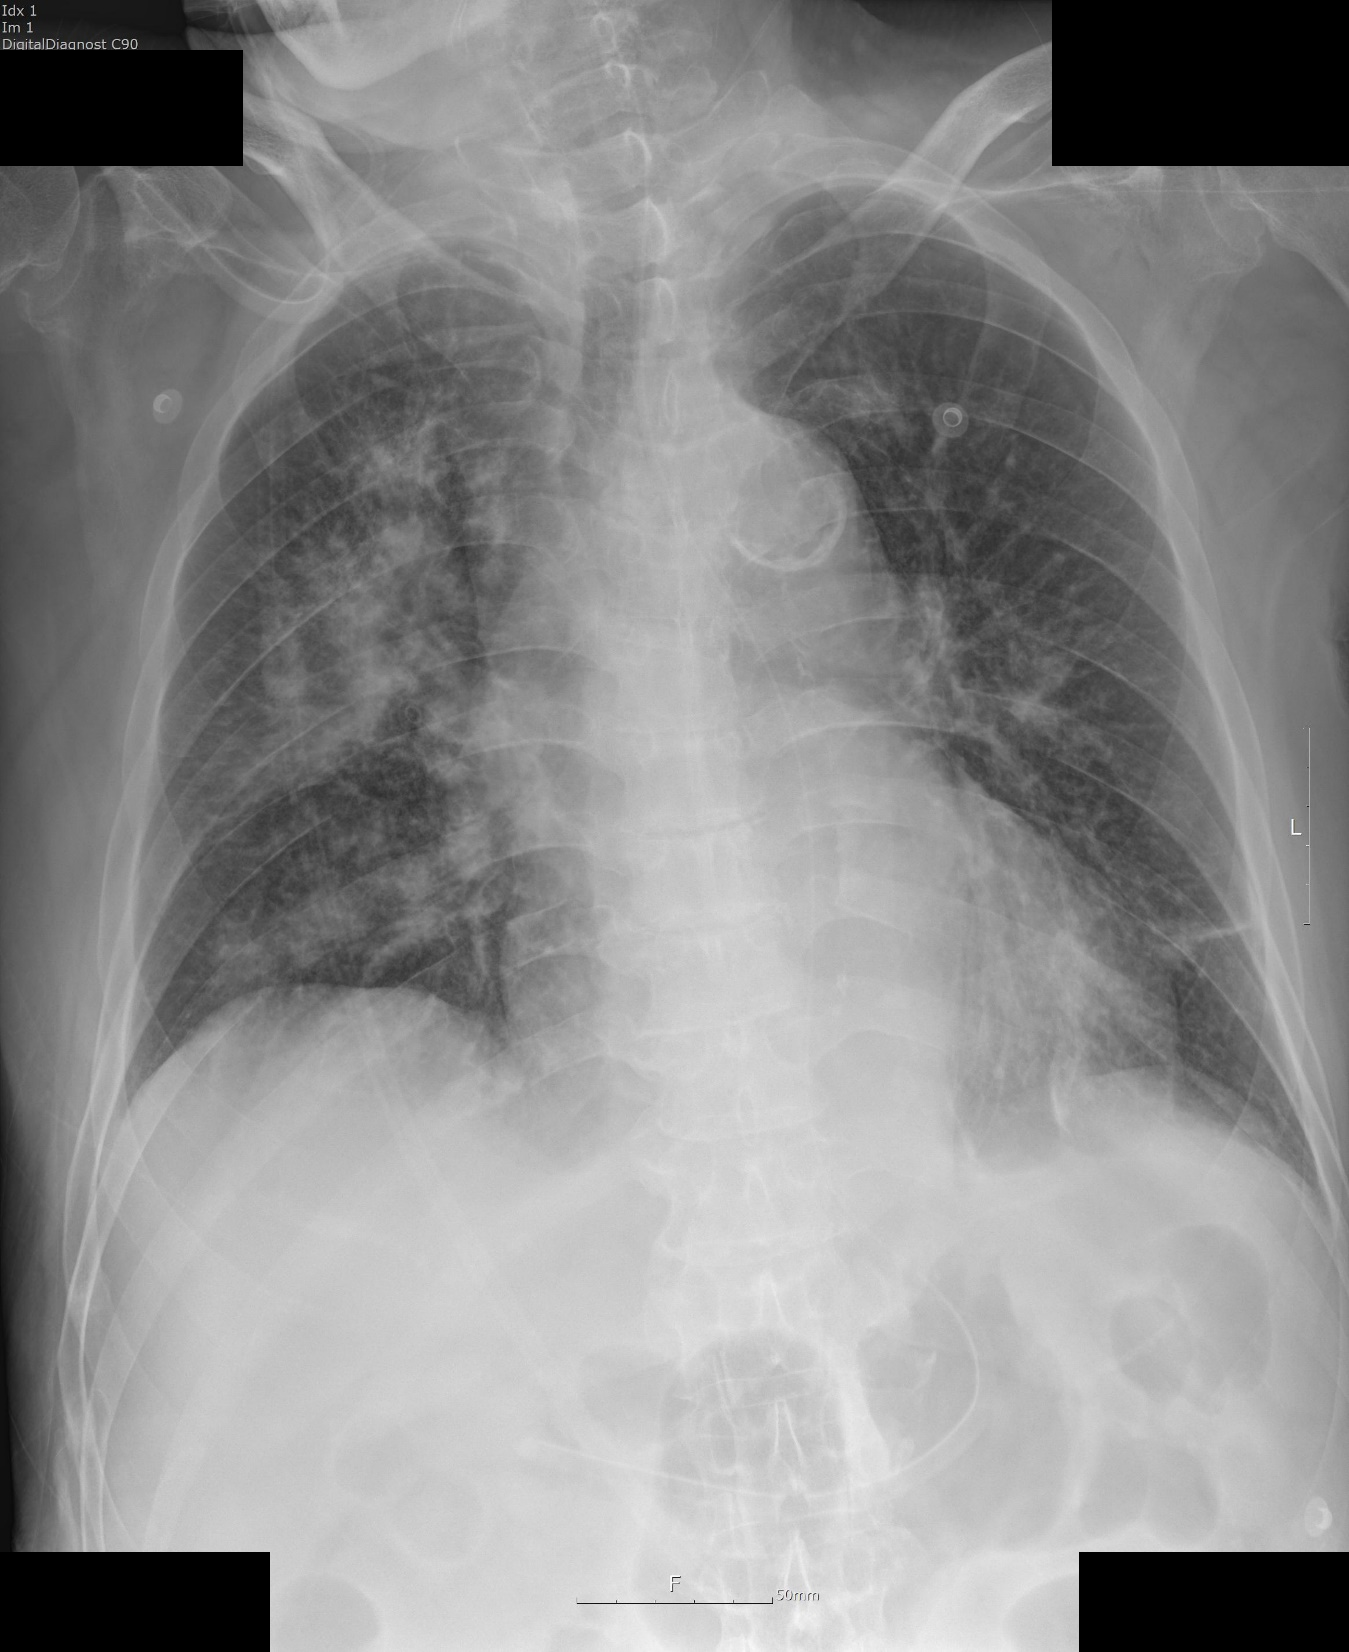
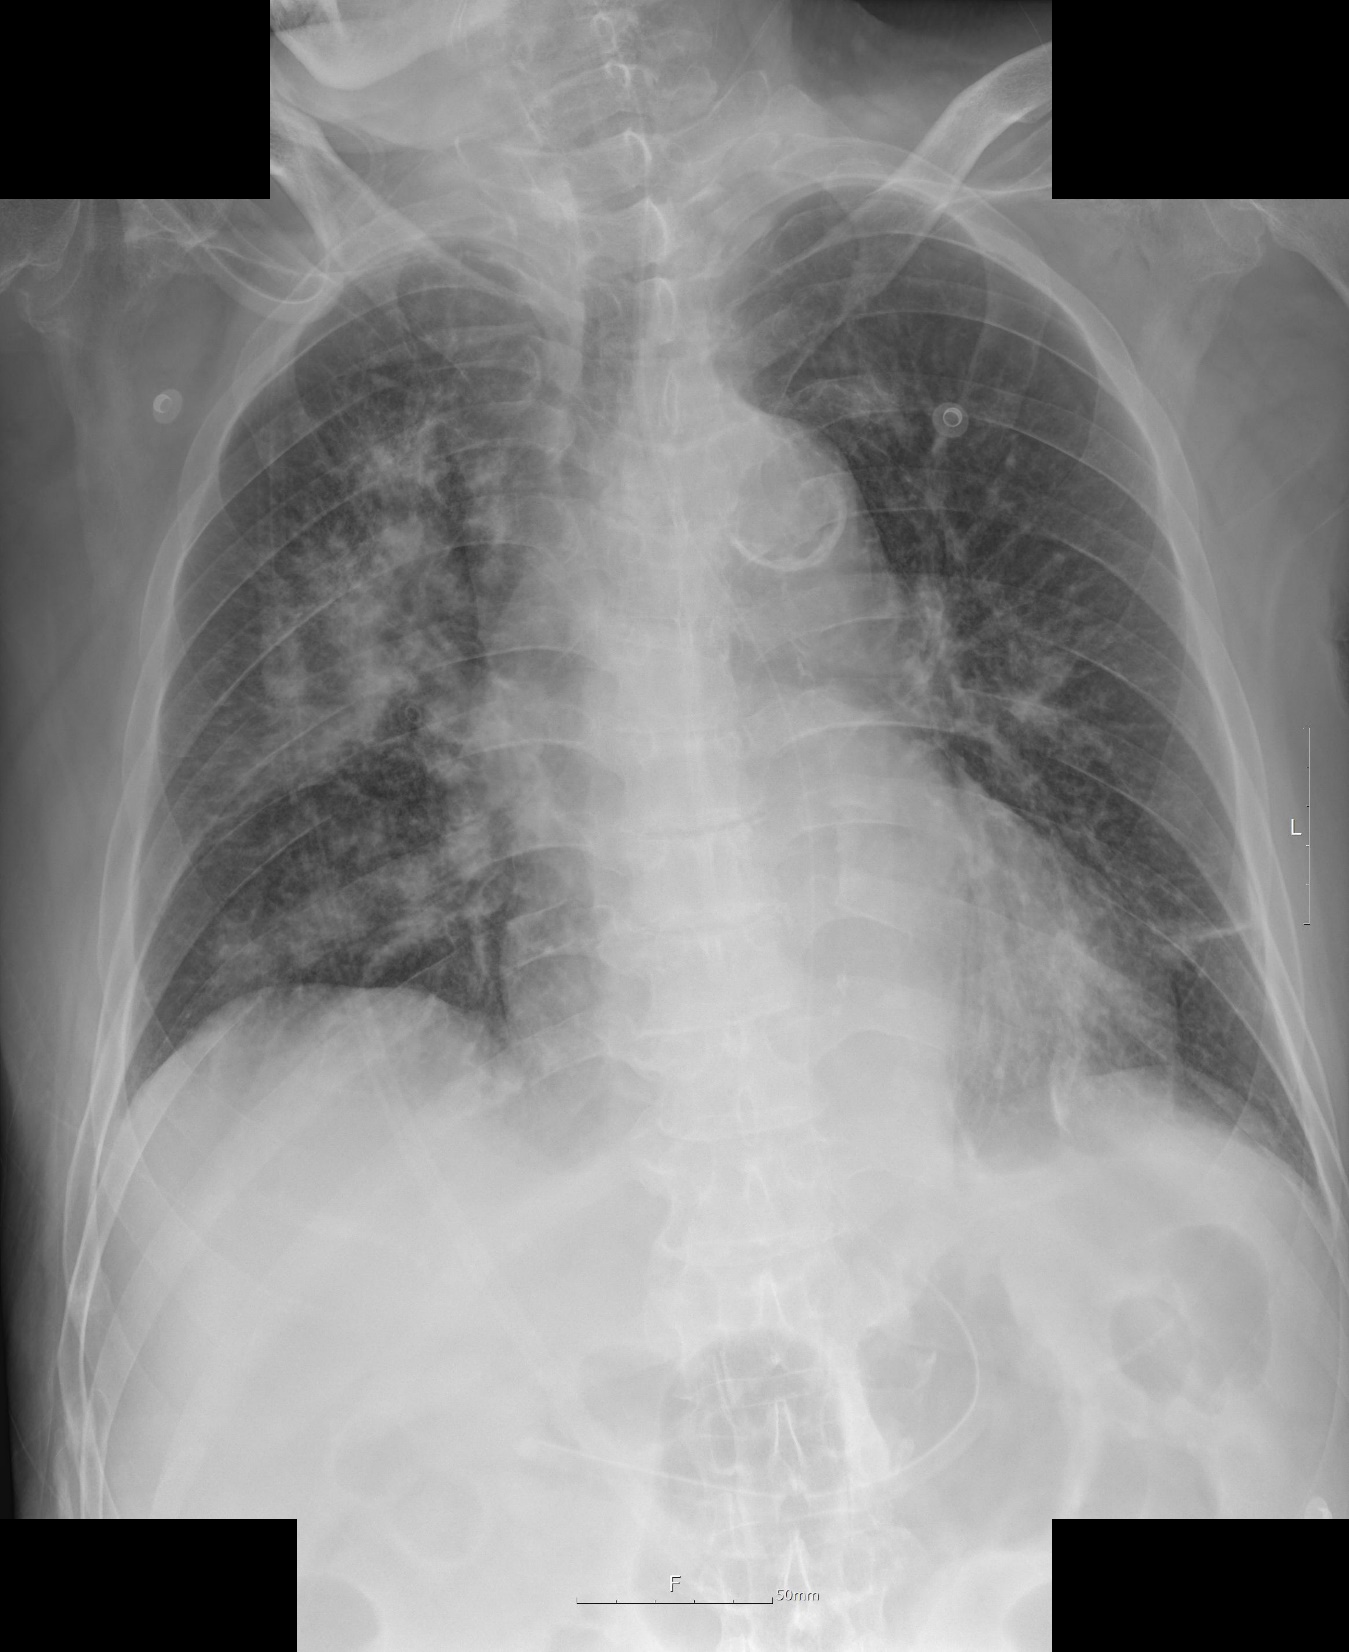
Stick X-ray panel while MCQ/oral checklist scrolls
The 12-question MCQ list is long enough that scrolling to question 8+
pushed the X-ray out of view, leaving students answering blind. Make
the left panel position: sticky (top: 16px) with a viewport-bounded
max-height so it pins as the right side scrolls. align-items: start
on the grid keeps the left panel from stretching to the right column's
height — required for sticky to take effect inside CSS grid.

Also tighten case_10 corner masking — the previous mask preserved a
50px strip at the top of the left corner to keep the R/L marker, but
that strip still showed "Idx 1, Im 1, DigitalDiagnost C90" technical
text. Now all four corners are fully blacked; the radiographic
markers are sacrificed for cleaner anonymization.

diff --git a/index.html b/index.html
@@ -57,12 +57,25 @@
     font-size: 13px;
     cursor: pointer;
   }
-  .grid { display: grid; grid-template-columns: 1.2fr 1fr; gap: 18px; }
+  .grid {
+    display: grid;
+    grid-template-columns: 1.2fr 1fr;
+    gap: 18px;
+    align-items: start;   /* allow left panel to stop growing */
+  }
   .panel {
     background: #1e293b;
     border-radius: 12px;
     padding: 18px;
     border: 1px solid #334155;
+  }
+  /* Keep the X-ray panel pinned while the MCQ/oral checklist scrolls
+     beside it. align-items: start on .grid lets sticky take effect. */
+  .grid > .panel.sticky-pane {
+    position: sticky;
+    top: 16px;
+    max-height: calc(100vh - 32px);
+    overflow-y: auto;
   }
   .panel h2 {
     margin: 0 0 12px 0;
@@ -379,8 +392,8 @@
   <!-- CASE VIEW -->
   <div id="caseView">
     <div class="grid">
-      <!-- LEFT: X-ray -->
-      <div class="panel">
+      <!-- LEFT: X-ray (sticky while right side scrolls) -->
+      <div class="panel sticky-pane">
         <h2 id="caseTitle">Loading...</h2>
         <div class="case-meta" id="caseMeta"></div>
         <div id="xrayContainer"></div>

diff --git a/finalize_cases.py b/finalize_cases.py
@@ -48,17 +48,19 @@ def find_ext(base):
     return None
 
 def mask_corners(img):
-    """Mask top-left and top-right corner DICOM text, preserving R/L marker."""
+    """Mask all four corner DICOM text regions completely.
+    Preserving R/L radiographic markers is nice-to-have but secondary to
+    removing every line that could carry identifiers/metadata."""
     w, h = img.size
     draw = ImageDraw.Draw(img)
-    # Mask top-left: skip the very top 50px so R marker stays visible
-    # Cover ~rows 50-170, cols 0-180 (under the R marker)
-    draw.rectangle([0, 50, int(w * 0.18), int(h * 0.10)], fill="black")
-    # Mask top-right: cover ~rows 0-150, cols (w-220)-w
-    draw.rectangle([int(w * 0.78), 0, w, int(h * 0.10)], fill="black")
-    # Also mask bottom-left and bottom-right small technical text
-    draw.rectangle([0, int(h * 0.94), int(w * 0.20), h], fill="black")
-    draw.rectangle([int(w * 0.80), int(h * 0.94), w, h], fill="black")
+    # Top-left: 0..18% width × 0..12% height (covers Idx/Im/DigitalDiagnost/R)
+    draw.rectangle([0, 0, int(w * 0.20), int(h * 0.12)], fill="black")
+    # Top-right: 78..100% × 0..12% (covers hospital name, study date, age/sex)
+    draw.rectangle([int(w * 0.78), 0, w, int(h * 0.12)], fill="black")
+    # Bottom-left: technical info / scale
+    draw.rectangle([0, int(h * 0.92), int(w * 0.22), h], fill="black")
+    # Bottom-right: window/level info
+    draw.rectangle([int(w * 0.78), int(h * 0.92), w, h], fill="black")
     return img
 
 # Load source metadata (has findings_text per case)